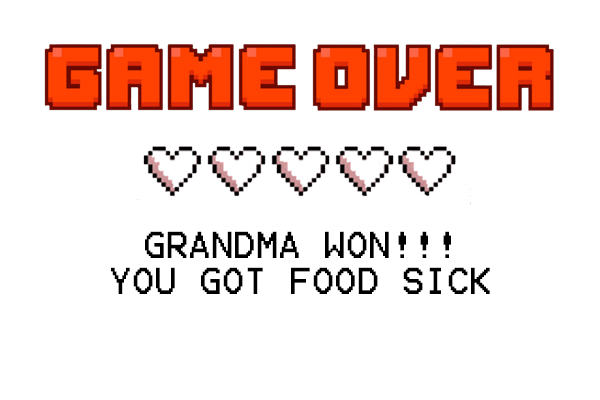
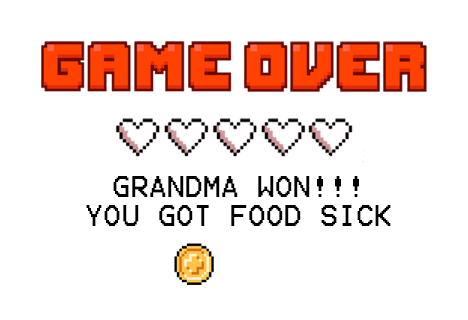
add bonus coins, working

Changed region(s): [[0.0598, 0.0938, 0.9274, 0.3125], [0.1795, 0.5312, 0.8376, 0.9062], [0.2393, 0.3438, 0.7778, 0.5]]

diff --git a/game.js b/game.js
@@ -9,12 +9,14 @@ class Game {
     this.intervalId = null;
     this.gameRuning = false;
     this.bgImage = new Image();
+    this.coinBonus = [];
     this.lifeBonus = [];
     this.foodObst1 = [];
     this.foodObst2 = [];
     this.foodObst3 = [];
     this.foodObst4 = [];
     this.topScore = {};
+    this.imgCoin = new Image();
     this.crashSound = new Audio(
       "./docs/assets/sounds/mixkit-small-hit-in-a-game-2072.wav"
     );
@@ -24,9 +26,6 @@ class Game {
     this.playerWinsSound = new Audio(
       "./docs/assets/sounds/success-fanfare-trumpets-6185.mp3"
     );
-    /* this.initSound = new Audio(
-      "./docs/assets/imgs/mixkit-game-bonus-reached-2065.wav"
-    ); */
   }
 
   startGame() {
@@ -60,7 +59,6 @@ class Game {
     this.checkGameResult();
     this.updateBonus();
     this.checkWinOrLose();
-    //this.scoreBoard()
   }
 
   updateObstacles() {
@@ -155,6 +153,24 @@ class Game {
         this.lifeBonus.pop(this.lifeBonus[0]);
       }
     }
+
+    for (let i = 0; i < this.coinBonus.length; i++) {
+      this.coinBonus[0].updateCoinBonus();
+    }
+    if (this.frames % (200 * this.level) === 0) {
+      this.coinBonus.push(new Bonus(this));
+    }
+    for (let i = 0; i < this.coinBonus.length; i++) {
+      if (this.newPlayer.crashWith(this.coinBonus[0])) {
+        this.newPlayer.playerCoins += 10;
+        this.coinBonus.pop(this.coinBonus[0]);
+      }
+    }
+    this.ctx.font = "30px helvetica";
+    this.ctx.fillStyle = "black";
+    this.ctx.fillText(`${this.newPlayer.playerCoins}`, 110, 108);
+    this.imgCoin.src = "./docs/assets/imgs/coinw40h42.png";
+    this.ctx.drawImage(this.imgCoin, 70, 80, 30, 32);
   }
 
   checkWinOrLose() {

diff --git a/player.js b/player.js
@@ -1,13 +1,14 @@
 class Player {
   constructor(x, y, game) {
-    this.x = x; //starts at x=0
+    this.x = x;
     this.y = y;
-    this.width = 55; //width image
-    this.height = 90; //height image
+    this.width = 55;
+    this.height = 90;
     this.img = new Image();
     this.lifeBar = 340;
     this.heartBarImg = new Image();
     this.game = game;
+    this.playerCoins=0;
     const img2 = new Image();
     img2.addEventListener("load", () => {
       this.img2 = img2;
@@ -34,13 +35,13 @@ class Player {
     }
   }
   moveDown() {
-    if (this.y + this.height < 800) {
+    if (this.y + this.height < 770) {
       this.y += 25;
     }
   }
 
   moveRight() {
-    if (this.x + this.width < 600) {
+    if (this.x + this.width < 500) {
       this.x += 25;
     }
   }
@@ -73,15 +74,9 @@ class Player {
   }
 
   playerWins() {
-    /* this.game.ctx.fillStyle = "black";
-    this.game.ctx.fillRect(350, 200, 500, 300);
-    this.game.ctx.font = "25px serif";
-    this.game.ctx.fillStyle = "white";
-    this.game.ctx.fillText(`CONGRATS`, 520, 250);
-    this.game.ctx.fillText(`YOU WON!`, 525, 280);
-    this.game.ctx.fillText(`NANA GOT TIRED OF`, 460, 330);
-    this.game.ctx.fillText(`THROWING SO MUCH FOOD`, 420, 360);
-    this.game.ctx.fillText(`Your score:${game.newPlayer.lifeBar}`, 430, 390); */
     this.game.ctx.drawImage(this.img2, 300, 200, 600, 400);
+    this.game.ctx.font = "55px helvetica";
+    this.game.ctx.fillStyle = "black";
+    this.game.ctx.fillText(`${this.playerCoins}`,595, 548)
   }
 }

diff --git a/bonus.js b/bonus.js
@@ -1,16 +1,22 @@
 class Bonus {
   constructor(game) {
-    this.x = Math.floor(Math.random() * (450 - 300) + 300);
-    this.y = Math.floor(Math.random() * (600 - 200) + 200);
+    this.x = Math.floor(Math.random() * (445 - 50) + 50);
+    this.y = Math.floor(Math.random() * (750 - 150) + 150);
     this.width = 40;
     this.height = 42;
-    this.img = new Image();
+    this.img1 = new Image();
+    this.img2 = new Image();
     this.game = game;
   }
 
   updateLifeBonus() {
-    this.img.src = "./docs/assets/imgs/heart_w40xh42.png";
-    this.game.ctx.drawImage(this.img, this.x, this.y, this.width, this.height);
+    this.img1.src = "./docs/assets/imgs/heart_w40xh42.png";
+    this.game.ctx.drawImage(this.img1, this.x, this.y, this.width, this.height);
+  }
+
+  updateCoinBonus() {
+    this.img2.src = "./docs/assets/imgs/coinw40h42.png";
+    this.game.ctx.drawImage(this.img2, this.x, this.y, this.width, this.height);
   }
 
   top() {

diff --git a/grandma.js b/grandma.js
@@ -1,9 +1,9 @@
 class Grandma {
   constructor(game) {
-    this.x = 1115; //starts at x=0
+    this.x = 1115;
     this.y = 0;
-    this.width = 85; //width image
-    this.height = 120; //height image
+    this.width = 85;
+    this.height = 120;
     this.img1 = new Image();
     this.lifeBar = 230;
     this.game = game;
@@ -28,13 +28,16 @@ class Grandma {
 
   grandmaWins() {
     this.game.ctx.drawImage(this.img2, 300, 200, 600, 400);
+    this.game.ctx.font = "55px helvetica";
+    this.game.ctx.fillStyle = "black";
+    this.game.ctx.fillText(`${this.game.newPlayer.playerCoins}`, 595, 548);
   }
 
   grandmaMoves() {
     this.game.frames++;
 
     let minY = 100;
-    let maxY = 600;
+    let maxY = 680;
     let yPos = Math.floor(Math.random() * (maxY - minY) + minY);
 
     if (this.game.frames % 120 === 1) {

diff --git a/windowLoad.js b/windowLoad.js
@@ -29,8 +29,11 @@ function resetGame() {
     game.startGame();
     startButton.disabled = true;
   }
+
   buttonEasy.style.backgroundColor = "#e2ccce";
+
   buttonMed.style.backgroundColor = "#e2ccce";
+
   buttonHard.style.backgroundColor = "#e2ccce";
 }
 
@@ -48,19 +51,21 @@ window.onload = () => {
 
 buttonEasy.addEventListener("click", () => {
   gameLevel = 1;
-
   startButton.disabled = false;
+
   buttonEasy.style.backgroundColor = "#A33531";
 });
 
 buttonMed.addEventListener("click", () => {
   gameLevel = 0.8;
   startButton.disabled = false;
+
   buttonMed.style.backgroundColor = "#A33531";
 });
 
 buttonHard.addEventListener("click", () => {
   gameLevel = 0.5;
   startButton.disabled = false;
+
   buttonHard.style.backgroundColor = "#A33531";
 });

diff --git a/index.html b/index.html
@@ -19,6 +19,10 @@
             She is attacking you with food! Avoid the obstacles until grandma
             gets tired to win the game!
           </p>
+          <p>
+            Meanwhile, catch as much coins as you can so you can be financially
+            independent.
+          </p>
           <p>Let's GO!</p>
         </div>
         <div class="mid-div">

diff --git a/style.css b/style.css
@@ -18,7 +18,7 @@ h1 {
 }
 
 p {
-  font-size: 2.3rem;
+  font-size: 2rem;
   text-align: center;
   padding-top: 2%;
 }
@@ -106,7 +106,7 @@ p {
 }
 
 .level-button:hover {
-  color: #e2ccce;
+  color: black;
   background-color: #a33531;
 }
 
